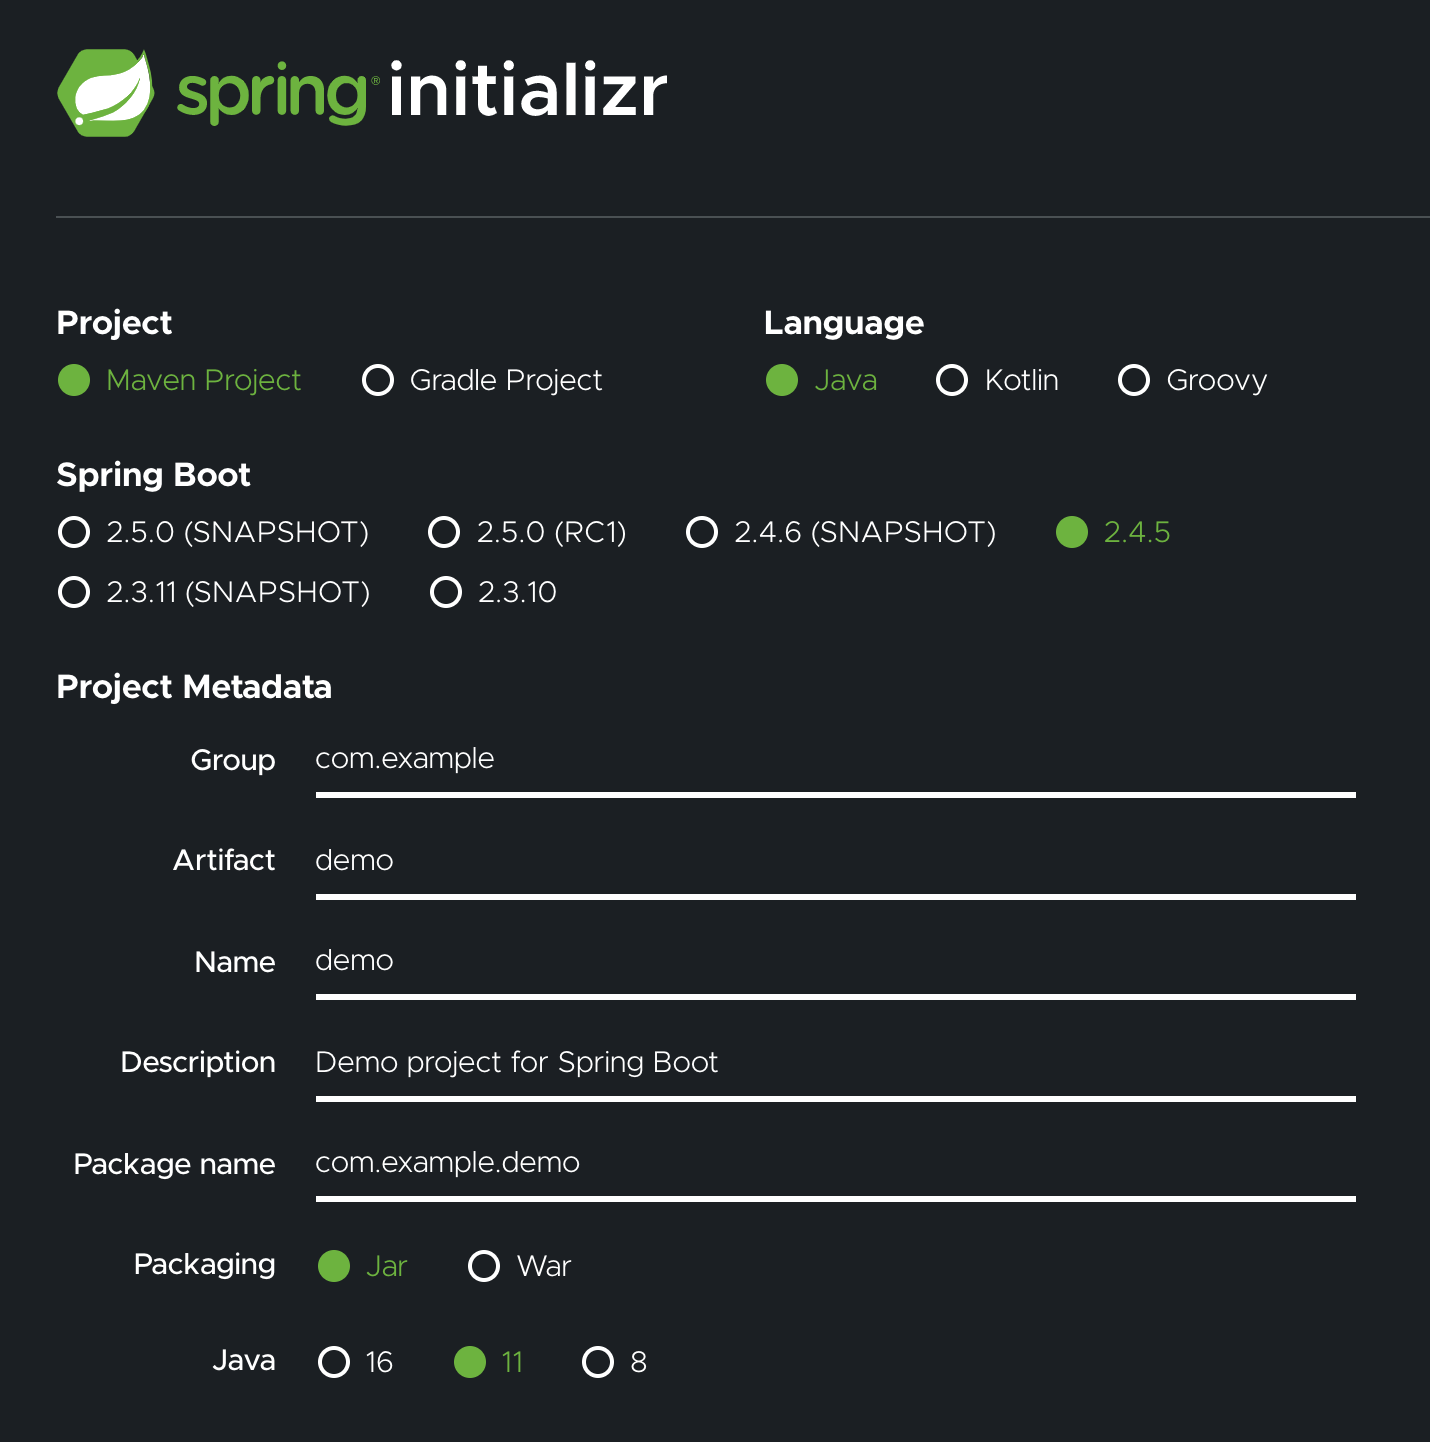
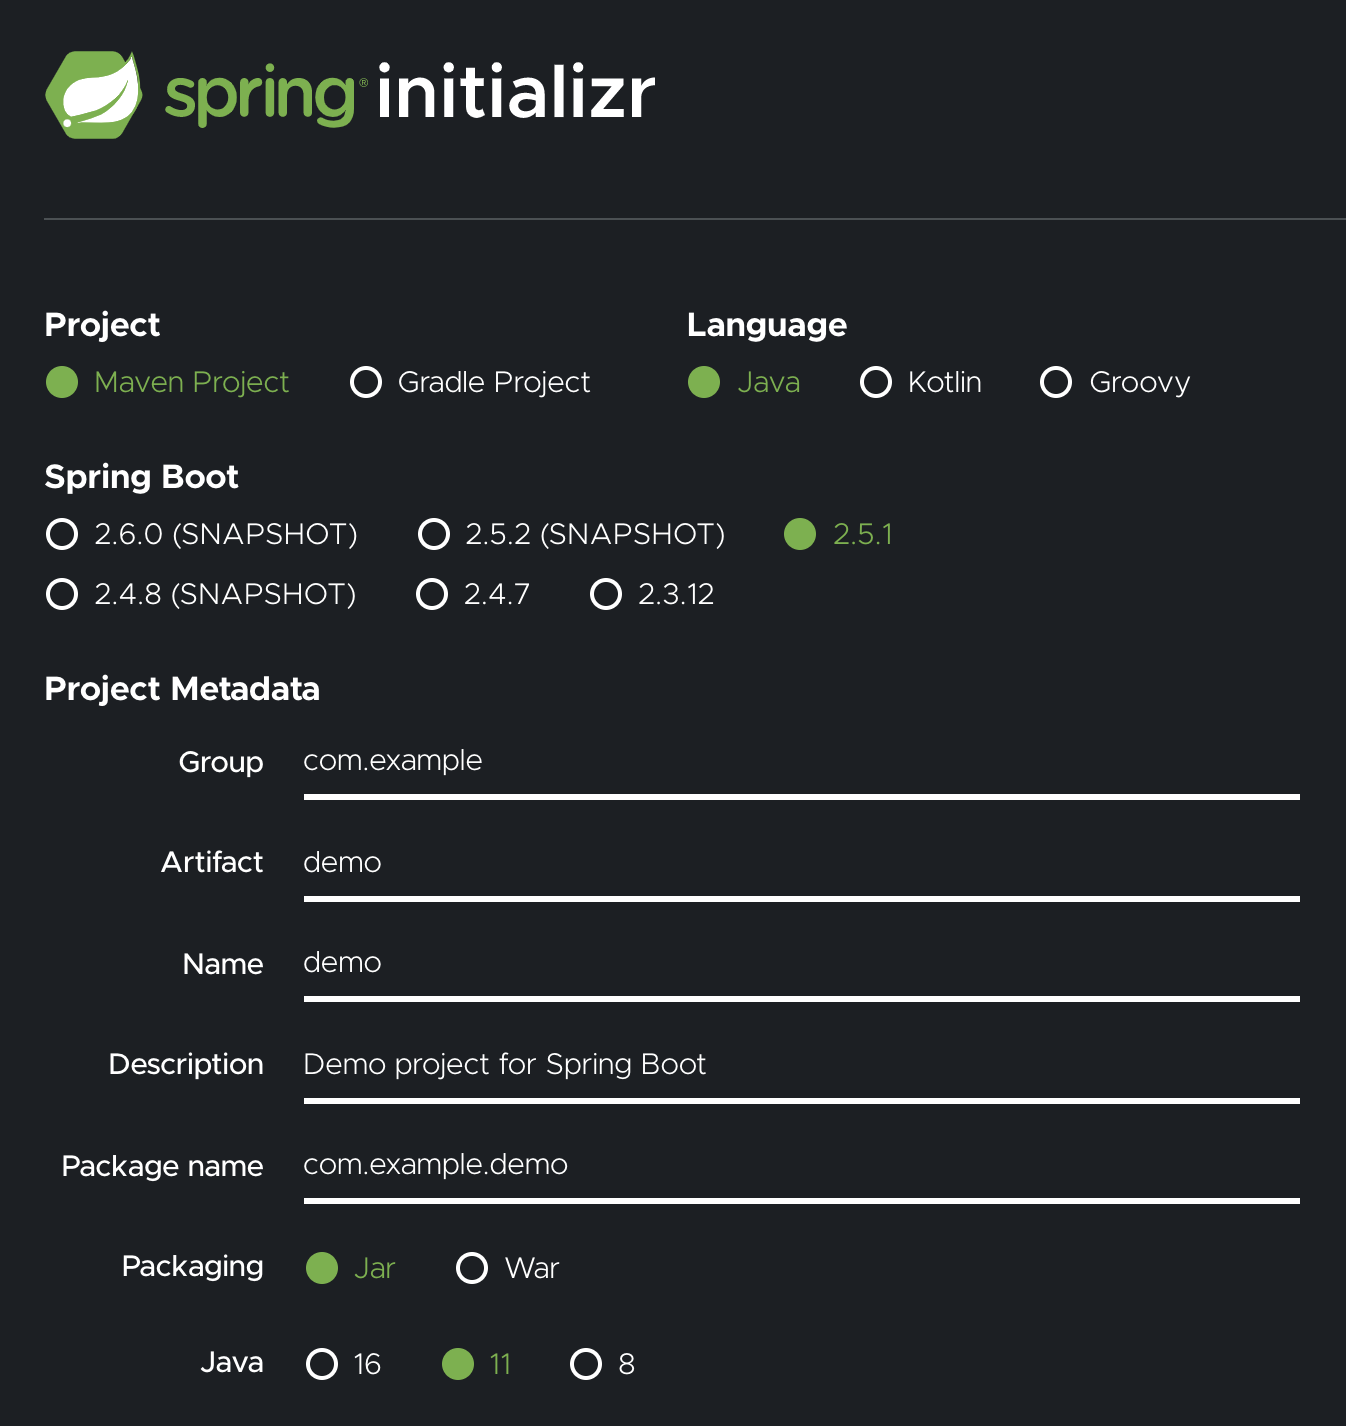
Updates after reviews

diff --git a/_source/_posts/2021-07-26-spring-cloud-sleuth.md b/_source/_posts/2021-07-26-spring-cloud-sleuth.md
@@ -72,7 +72,7 @@ cd spring-cloud-sleuth-demo
 
 The command uses a lot of the default settings. It uses Maven as the dependency manager. It uses Java as the programming language. It uses Spring Boot 2.4.5 (the current release at the time of writing this tutorial). It creates a JAR as the build target. Finally, it specifies Java 11 (again, at the time of this tutorial).
 
-{% img blog/spring-cloud-sleuth/spring-initializr.png alt:"Spring Initializr" width:"715" %}{: .center-image }
+{% img blog/spring-cloud-sleuth/spring-initializr.png alt:"Spring Initializr" width:"650" %}{: .center-image }
 
 The most important thing it configures is four dependencies.
 
@@ -128,7 +128,7 @@ public class SecurityConfiguration extends WebSecurityConfigurerAdapter {
 }
 ```
 
-## Make An Example Spring Cloud Sleuth App
+## Make an Example Spring Cloud Sleuth App
 
 Replace the `DemoApplication` class with the code listed below. I'll explain the code below.
 
@@ -216,7 +216,7 @@ In endpoint `a`, notice that the code grabs the JWT token from the header as a r
 
 If you don't inject the `RestTemplate` as a bean but instead instantiate it directly in the method or use a different HTTP client, you will need to manually add the Sleuth trace ID.
 
-## Launch A Zipkin Server
+## Launch a Zipkin Server
 
 Before you start the two instances of the Spring Boot app, you need to launch your Zipkin server. Because the project includes the Zipkin Client dependency (along with the Spring Cloud Sleuth dependency), Spring Boot is configured to send logging information to a Zipkin server at the default port `:9441`. This includes a graphical interface that allows you to search and view log traces.
 
@@ -247,7 +247,7 @@ There's nothing to see yet, but you can open the Zipkin dashboard in a browser: 
 {% img blog/spring-cloud-sleuth/zipkin-dashboard.png alt:"Zipkin dashboard" width:"715" %}{: .center-image }
 
 
-## Launch The App Instances
+## Launch Two App Instances
 
 Now you're ready to launch the instances of your app. First, you need to run the following commands in two separate shells. Notice that you're using the environment variables to pass the application name and port to the Spring Boot app.
 
@@ -284,7 +284,7 @@ HTTP/1.1 401
 
 This is expected. You need to include a valid JWT.
 
-## Create A Valid JWT With OIDC Debugger
+## Create a Valid JWT with OIDC Debugger
 
 {% include setup/oidcdebugger.md responseType="token" %}
 
@@ -302,7 +302,7 @@ In the bash shell that you will make the HTTP requests from, save the token valu
 TOKEN=eyJraWQiOiJJdXVaRG00RTg5WUg5U1JoeC1tbWl...
 ```
 
-## Test The Authenticated Application
+## Confirm Spring Cloud Sleuth Works
 
 Great. At this point, you should have four bash terminals going.
 
